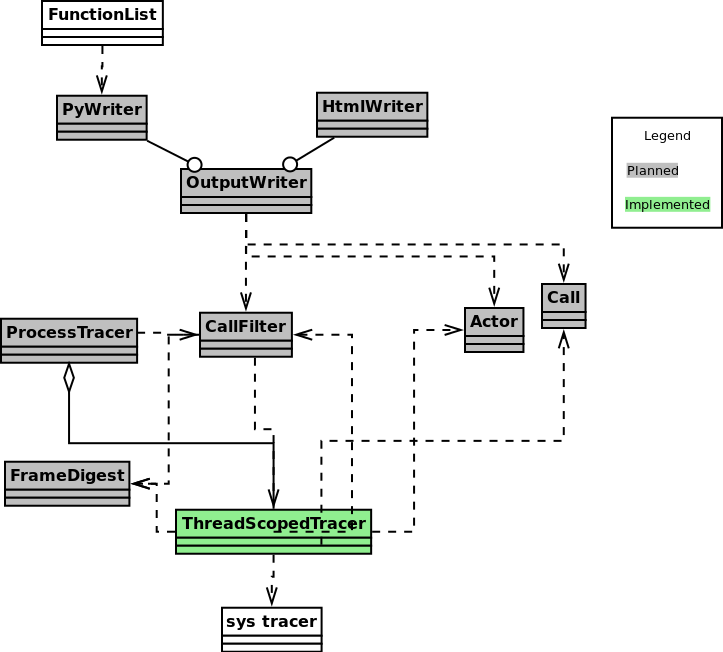
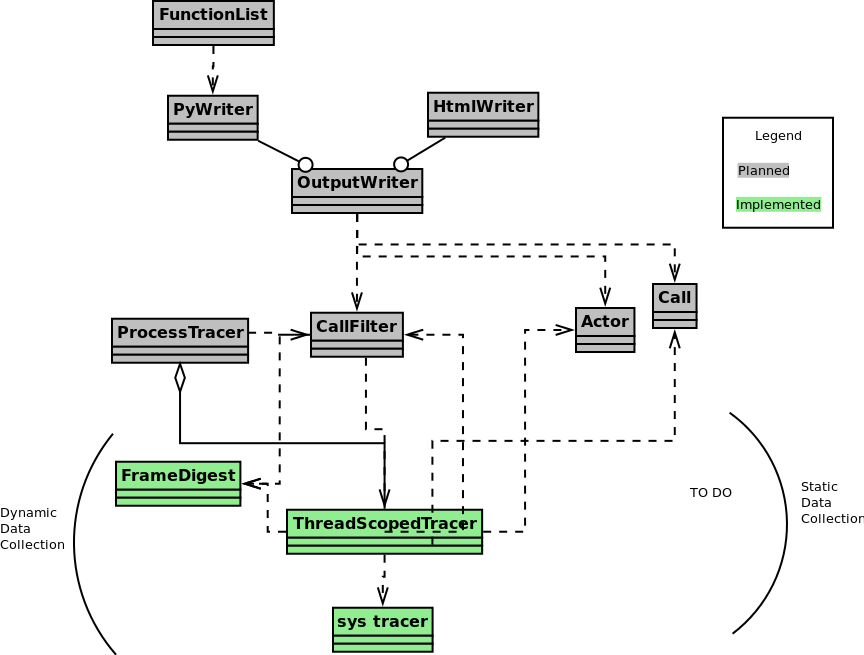
Adding FrameDigest class

diff --git a/src/depict/data_collection/dynamic/test/test_frame_digest.py b/src/depict/data_collection/dynamic/test/test_frame_digest.py
@@ -1,0 +1,57 @@
+import unittest
+from mock import Mock, MagicMock, call, ANY, patch
+from depict.data_collection.dynamic.frame_digest import FrameDigest
+from nose_parameterized import parameterized
+import inspect
+
+class TestFrameDigest(unittest.TestCase):
+
+    @parameterized.expand([('module1',), ('module2',)])
+    def test_extracts_module_name(self, expected_module_name):
+        frame_mock = Mock()
+        frame_mock.f_globals = MagicMock()
+        frame_mock.f_globals.__getitem__.return_value = expected_module_name
+        frame_digest = FrameDigest(frame_mock)
+        actual_module_name = frame_digest.module_name
+        self.assertEqual(actual_module_name, expected_module_name)
+
+    @parameterized.expand([('func1',), ('func2',)])
+    def test_extracts_function_name(self, expected_function_name):
+        frame_mock = Mock()
+        frame_mock.f_code.co_name = expected_function_name
+        frame_digest = FrameDigest(frame_mock)
+        actual_function_name = frame_digest.function_name
+        self.assertEqual(actual_function_name, expected_function_name)
+
+    @patch('os.path.abspath')
+    def test_file_name_returns_full_path_to_file(self, abspath_mock):
+        abspath_mock.return_value = 'absolute/path/to/file'
+        frame_mock = Mock()
+        frame_mock.f_code.co_filename = 'path/to/file'
+        frame_digest = FrameDigest(frame_mock)
+        actual_filename = frame_digest.file_name
+        abspath_mock.assert_called_once_with('path/to/file')
+        self.assertEqual(actual_filename, 'absolute/path/to/file')
+
+    @parameterized.expand([(1,), (10,)])
+    def test_line_number_returns_source_code_line_number(self, expected_lineno):
+        frame_mock = Mock()
+        frame_mock.f_lineno = expected_lineno 
+        frame_digest = FrameDigest(frame_mock)
+        actual_lineno = frame_digest.line_number
+        self.assertEqual(actual_lineno, expected_lineno)
+
+    def test_works_on_a_real_frame_object(self):
+        frame = inspect.currentframe()
+        frame_digest = FrameDigest(frame)
+        actual_module_name = frame_digest.module_name
+        actual_function_name = frame_digest.function_name
+        actual_file_name = frame_digest.file_name        
+        actual_lineno = frame_digest.line_number        
+        self.assertEqual(actual_module_name, 'test_frame_digest')
+        self.assertEqual(actual_function_name, 'test_works_on_a_real_frame_object')
+        assert 'test_frame_digest.py' in actual_file_name
+        assert actual_lineno
+
+if __name__ == '__main__':
+    unittest.main()

diff --git a/src/depict/data_collection/dynamic/frame_digest.py b/src/depict/data_collection/dynamic/frame_digest.py
@@ -1,0 +1,22 @@
+import os
+
+class FrameDigest():
+
+    def __init__(self, frame):
+        self.frame = frame
+
+    @property
+    def function_name(self):
+        return self.frame.f_code.co_name
+
+    @property
+    def module_name(self):
+        return self.frame.f_globals['__name__']
+
+    @property
+    def file_name(self):
+        return os.path.abspath(self.frame.f_code.co_filename)
+
+    @property
+    def line_number(self):
+        return self.frame.f_lineno

diff --git a/src/depict/analysis/test/test_actor_finder.py b/src/depict/analysis/test/test_actor_finder.py
@@ -1,0 +1,9 @@
+import unittest
+from mock import Mock, call, ANY
+from depict.data_collection.dynamic.thread_scoped_tracer import ThreadScopedTracer
+
+class TestActorFinder(unittest.TestCase):
+    pass
+
+if __name__ == '__main__':
+    unittest.main()

diff --git a/src/depict/analysis/actor_finder.py b/src/depict/analysis/actor_finder.py
@@ -1,0 +1,2 @@
+class ActorFinder():
+    pass

diff --git a/doc/overview.md b/doc/overview.md
@@ -1,6 +1,10 @@
 Overview
 ========
 
+The big picture:
+
+![](big_picture.png)
+
 Main classes:
 
 ![](main_classes.png)
